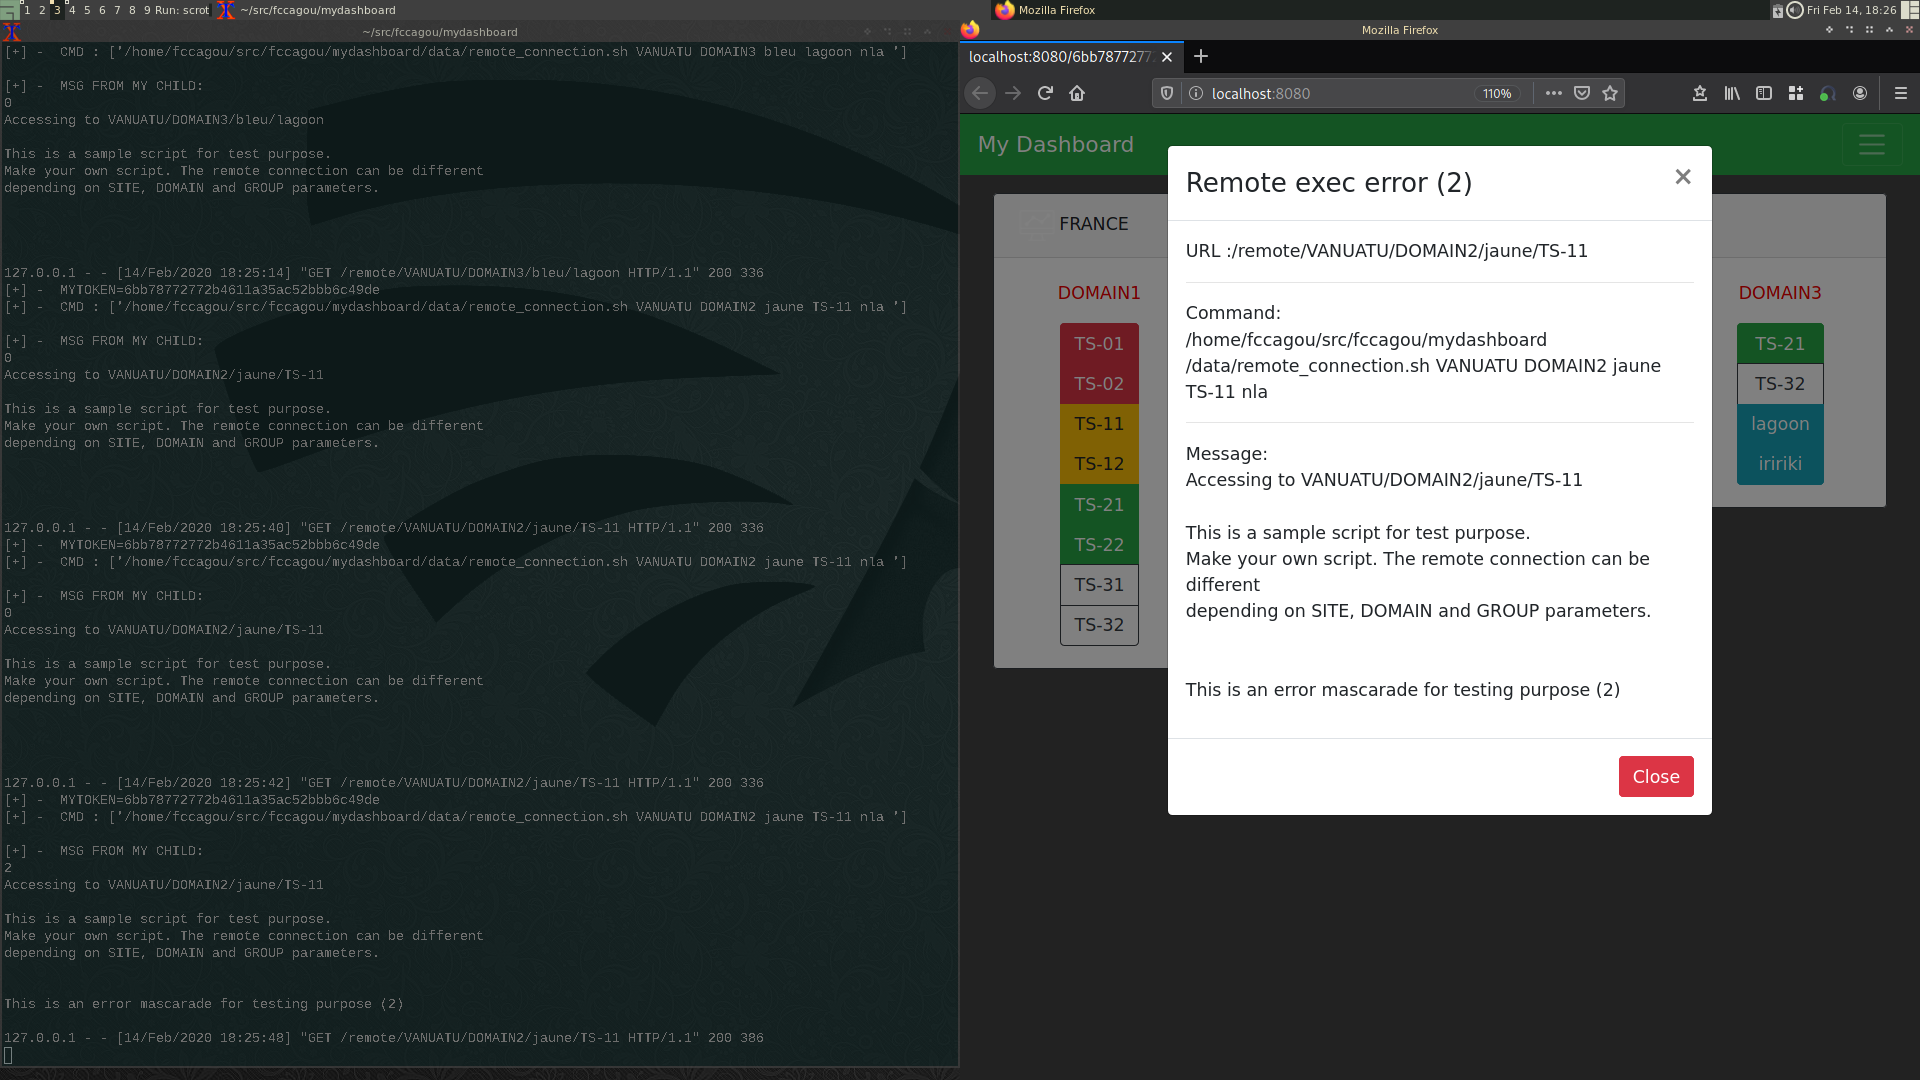
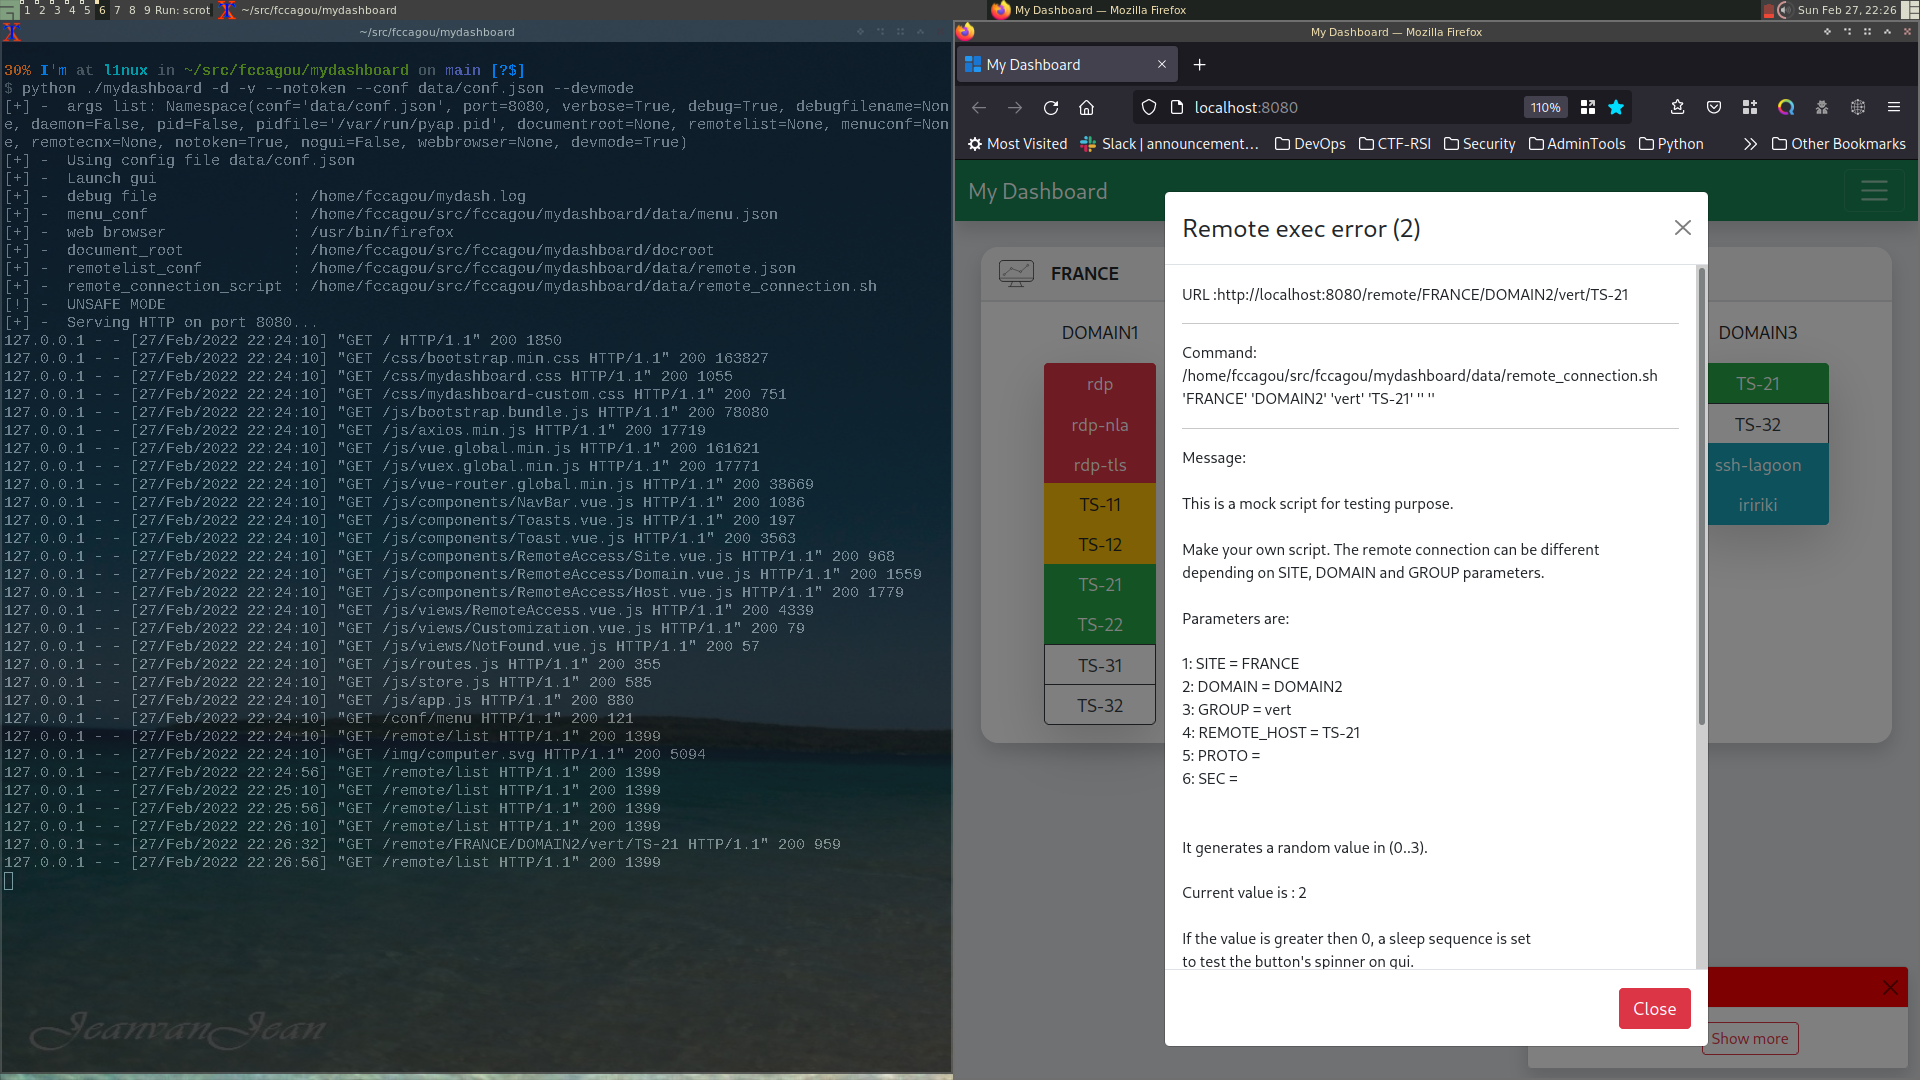
doc(README.md): update pictures according to new visualization

diff --git a/README.md b/README.md
@@ -51,10 +51,9 @@ In unsafe way for example
 
 ![The web GUI](doc/mydashboard_run.png) "The web browser launched to access UI"
 
-## Everything's OK
-![remote ok](doc/mydashboard_remote_ok.png) "A valid remote access"
-
 ## Catch remote error
 ![remote ko](doc/mydashboard_remote_ko.png) "Remote error"
 
+## Backend stopped
+![remote ko](doc/mydashboard_backend_ko.png) "Backend stopped"
 
